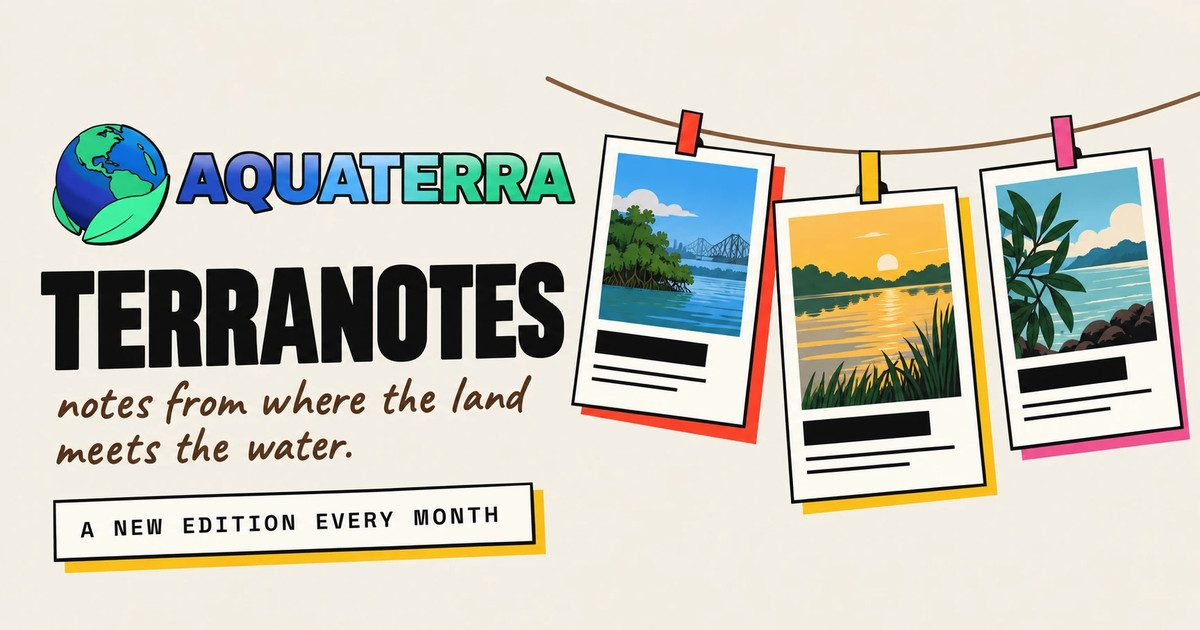
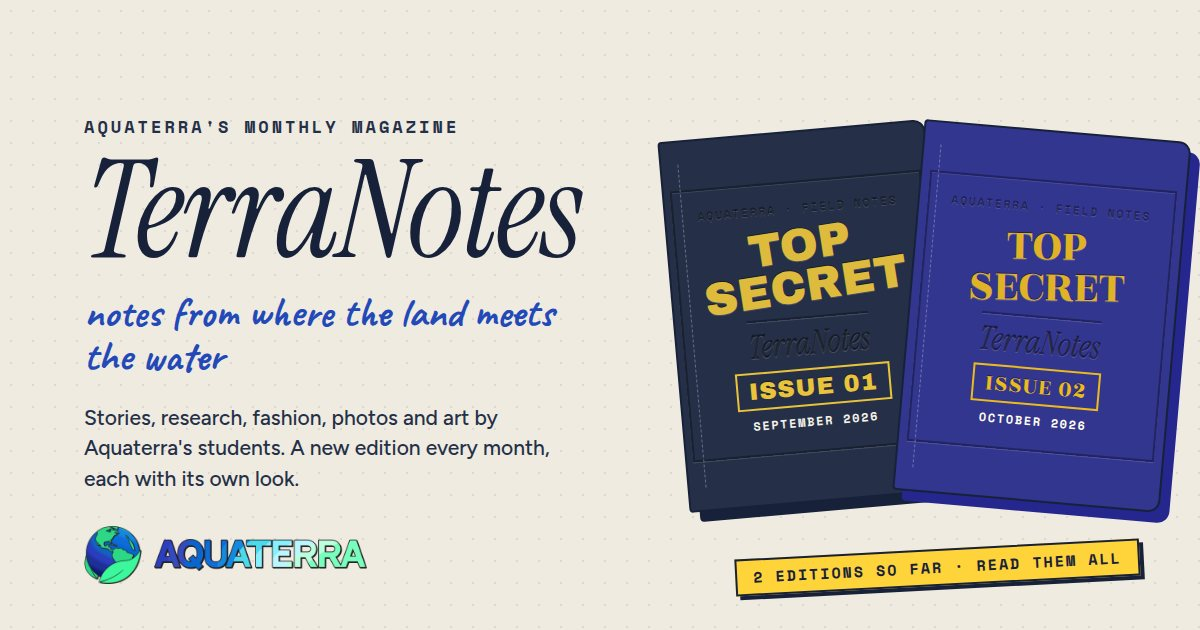
Link previews for the main page, each edition and each article, all together in public/og/
- tools/make-link-previews.mjs draws them all (the approved designs): home.jpg (every edition as
  its "Top secret" notebook), <id>.jpg (an edition on its paper with its covers on a string and
  its No. stamp), <id>-<slug>.jpg (an article: its cover in a frame its own shape, the edition's
  No. and month on a tape, tag, title, dek, byline). Editions without a paper of their own get
  their page colour.
- src/data/editions.js ogImage: where each lives.
- build/siteFiles.js: / and /editions (and 404) show the main page's, an edition's home and
  section pages show that edition's, an article (and its chapters) its own; content-hashed copies.
- Inside AQ the prerender does the same (embed/aq/scripts/prerender.mjs).
- The old preview.jpg in each article's folder is gone.

Claude-Session: https://claude.ai/code/session_01CgW7HxbCpt5fYjBJ3ADamc

diff --git a/build/siteFiles.js b/build/siteFiles.js
@@ -2,9 +2,11 @@
 // src/editions (drafts are left out: their pages only exist in the app, at their own address):
 // - an .html per article at its address (articles/<slug>.html, older editions <id>/articles/<slug>.html; also one per
 //   chapter and demo of an own-page article, <article>/<chapter>.html and <article>/<chapter>/demo.html; served
-//   without .html via cleanUrls in vercel.json): its own title, description, link-preview tags (image: preview.jpg in
-//   the article's folder, public/editions/<id>/articles/<slug>/, copied to a content-hashed name so chat apps don't
-//   keep showing an old picture) and its text (build/staticCopy.js) for crawlers that don't run JavaScript;
+//   without .html via cleanUrls in vercel.json): its own title, description, link-preview tags and its text
+//   (build/staticCopy.js) for crawlers that don't run JavaScript;
+// - every page's link-preview picture from public/og/ (src/data/editions.js ogImage: the main page's on / and
+//   /editions, an edition's on its home page and sections, an article's on the article), copied to a content-hashed
+//   name so chat apps don't keep showing an old picture;
 // - index.html, articles.html, photos.html, words.html, members.html (the latest edition's home page and its sections),
 //   the same for each older edition under its id (sep26.html, sep26/photos.html…), and editions.html, with their own
 //   titles and text;
@@ -13,7 +15,7 @@ import fs from 'node:fs';
 import path from 'node:path';
 import crypto from 'node:crypto';
 import { ALL_ARTICLES } from '../src/data/articles.js';
-import { LATEST, PUBLISHED, articleFolder, articleLink, editionName, homeLink, isDraft } from '../src/data/editions.js';
+import { LATEST, PUBLISHED, articleLink, editionName, homeLink, isDraft, ogImage } from '../src/data/editions.js';
 import { SITE } from '../src/data/site.js';
 import { editionData } from '../src/editions/index.js';
 import { articleHtml, editionsHtml, homeHtml, withContent } from './staticCopy.js';
@@ -32,6 +34,22 @@ export default function siteFiles(host) {
       const out = (name, text) => { fs.mkdirSync(path.dirname(path.join(dir, name)), { recursive: true }); fs.writeFileSync(path.join(dir, name), text); };
       const base = fs.readFileSync(path.join(dir, 'index.html'), 'utf8');
       const url = (p) => `${host}${p}`;
+      // a link-preview picture (a URL under public/) copied to a content-hashed name; null when it hasn't been made
+      const hashed = new Map();
+      const og = (p) => {
+        if (!hashed.has(p)) {
+          const file = `public${p}`;
+          if (!fs.existsSync(file)) hashed.set(p, null);
+          else { const buf = fs.readFileSync(file), name = p.replace(/\.jpg$/, `-${crypto.createHash('md5').update(buf).digest('hex').slice(0, 8)}.jpg`); out(name.slice(1), buf); hashed.set(p, name); }
+        }
+        return hashed.get(p);
+      };
+      const withImage = (html, p, alt) => {
+        let h = html;
+        for (const [attr, name] of [['property', 'og:image'], ['property', 'og:image:secure_url'], ['name', 'twitter:image']]) h = setMeta(h, attr, name, url(p));
+        return alt ? h.replace('<meta property="og:image:type"', `<meta property="og:image:alt" content="${esc(alt)}" />\n    <meta property="og:image:type"`) : h;
+      };
+      const home = og(ogImage.home()), withHome = (html) => (home ? withImage(html, home, 'TerraNotes by Aquaterra') : html);
 
       for (const a of ARTICLES) {
         const desc = `${a.dek}${a.author ? ` — by ${a.author}` : ''}`;
@@ -41,17 +59,10 @@ export default function siteFiles(host) {
         html = setMeta(html, 'property', 'og:title', a.title);
         html = setMeta(html, 'property', 'og:description', desc);
         html = setMeta(html, 'property', 'og:url', url(articleLink(a)));
-        let og = a.cover; // no preview picture made yet: the cover itself
-        const made = `public${articleFolder(a)}/preview.jpg`;
-        if (fs.existsSync(made)) {
-          const buf = fs.readFileSync(made);
-          og = `${articleFolder(a)}/preview-${crypto.createHash('md5').update(buf).digest('hex').slice(0, 8)}.jpg`;
-          out(og.slice(1), buf);
-        }
-        if (og) {
-          for (const [attr, name] of [['property', 'og:image'], ['property', 'og:image:secure_url'], ['name', 'twitter:image']]) html = setMeta(html, attr, name, url(og));
-          if (og === a.cover) html = html.replace(/\s*<meta property="og:image:(width|height)"[^>]*>/g, ''); // a cover isn't 1200×630
-          html = html.replace('<meta property="og:image:type"', `<meta property="og:image:alt" content="${esc(a.alt || a.title)}" />\n    <meta property="og:image:type"`);
+        const pic = og(ogImage.article(a)) || a.cover; // no preview picture made yet: the cover itself
+        if (pic) {
+          html = withImage(html, pic, a.alt || a.title);
+          if (pic === a.cover) html = html.replace(/\s*<meta property="og:image:(width|height)"[^>]*>/g, ''); // a cover isn't 1200×630
         }
         html = html.replace('</title>', `</title>\n    <link rel="canonical" href="${esc(url(articleLink(a)))}" />`);
         out(`${articleLink(a).slice(1)}.html`, withContent(html, articleHtml(a)));
@@ -72,13 +83,16 @@ export default function siteFiles(host) {
           const p = homeLink(e.number, section), title = [name, old].filter(Boolean).join(' · ');
           let html = title ? setMeta(setTitle(base, `Aquaterra — ${title}`), 'property', 'og:title', `${title} · TerraNotes`) : base;
           html = setMeta(html, 'property', 'og:url', url(p));
+          // the main page shows the magazine; an edition's other pages show that edition
+          const pic = p === '/' ? null : og(ogImage.edition(e.number));
+          html = pic ? withImage(html, pic, `TerraNotes ${editionName(e.number)} · ${e.month}`) : withHome(html);
           out(p === '/' ? 'index.html' : `${p.slice(1)}.html`, withContent(html, homeHtml[section](editionData(e.number))));
           if (e.number === LATEST || !section) pages.push(p); // the sitemap: the latest's sections, an older edition's home
         }
       }
-      out('editions.html', withContent(setMeta(setMeta(setTitle(base, 'Aquaterra — Editions'), 'property', 'og:title', 'Editions · TerraNotes'), 'property', 'og:url', url('/editions')), editionsHtml()));
+      out('editions.html', withContent(withHome(setMeta(setMeta(setTitle(base, 'Aquaterra — Editions'), 'property', 'og:title', 'Editions · TerraNotes'), 'property', 'og:url', url('/editions'))), editionsHtml()));
 
-      out('404.html', setTitle(base, 'Aquaterra — not found').replace('</title>', '</title>\n    <meta name="robots" content="noindex" />'));
+      out('404.html', setTitle(withHome(base), 'Aquaterra — not found').replace('</title>', '</title>\n    <meta name="robots" content="noindex" />'));
       const paths = [...pages, '/editions', ...ARTICLES.map(articleLink)];
       out('sitemap.xml', `<?xml version="1.0" encoding="UTF-8"?>\n<urlset xmlns="http://www.sitemaps.org/schemas/sitemap/0.9">\n${paths.map((p) => `  <url><loc>${url(p)}</loc></url>`).join('\n')}\n</urlset>\n`);
       out('robots.txt', ['# TerraNotes by Aquaterra: every page is open to crawlers.', '# A plain-text guide to the site and its articles, for AI assistants: /llms.txt (full text: /llms-full.txt)', 'User-agent: *', 'Allow: /', '', `Sitemap: ${url('/sitemap.xml')}`, ''].join('\n'));

diff --git a/src/data/editions.js b/src/data/editions.js
@@ -25,9 +25,16 @@ export const editionLink = (n) => (n === LATEST ? '/' : `/${editionId(n)}`);
 // an edition's home page opened at a section ('articles', 'photos', 'words', 'members'): /photos, /sep26/photos
 export const homeLink = (n, section) => (n === LATEST ? `/${section || ''}` : `/${editionId(n)}${section ? `/${section}` : ''}`);
 export const articleLink = (a) => `${a.edition === LATEST ? '' : `/${editionId(a.edition)}`}/articles/${a.slug}`;
-// an article's folder of files (cover.jpg, preview.jpg, its photos): public/editions/<id>/articles/<slug>/, as a URL
+// an article's folder of files (cover.jpg, cover-card.webp, its photos): public/editions/<id>/articles/<slug>/, as a URL
 // (inside AQ's website under its /terranotes: lib/base.js)
 export const articleFolder = (a) => withBase(`/editions/${editionId(a.edition)}/articles/${a.slug}`);
+// the link-preview pictures (1200×630, made by tools/make-link-previews.mjs), all kept together in public/og/: the main
+// page's (home.jpg), each edition's (sep26.jpg) and each article's (sep26-labs.jpg), as URLs (inside AQ: under /terranotes)
+export const ogImage = {
+  home: () => withBase('/og/home.jpg'),
+  edition: (n) => withBase(`/og/${editionId(n)}.jpg`),
+  article: (a) => withBase(`/og/${editionId(a.edition)}-${a.slug}.jpg`),
+};
 // the month a new edition is due, for the empty "previous editions" shelf
 export const nextMonth = () => {
   const [m, y] = editionOf(LATEST).month.split(' ');

diff --git a/src/data/articles.js b/src/data/articles.js
@@ -33,7 +33,7 @@ import { ALL_ARTICLES, editionData } from '../editions/index.js';
 //   demos:    optional: { <chapter>: '<folder>' }: a web app kept in the article's folder, opened full-window at
 //             <article>/<chapter>/demo (pages/DemoPage.jsx), e.g. { 'wisdom-woods': 'wisdom-woods/demo' }
 // Blocks render in shared/ArticleBody.jsx. Leave a field '' and the design's placeholder shows instead.
-// After adding or changing an article's cover, run tools/make-link-previews.mjs for its link-preview image.
+// After adding or changing an article's cover, run tools/make-link-previews.mjs for its link-preview image (public/og/).
 // Each article also gets `edition` (its edition's number, data/editions.js) from the folder it's in.
 
 export { ALL_ARTICLES };

diff --git a/CLAUDE.md b/CLAUDE.md
@@ -55,7 +55,7 @@ npm run build    # → dist/ (also writes per-article HTML, sitemap, robots, 404
 npm run preview  # serve dist/ on :4173
 npm run check    # tools/check-embed.mjs: the mistakes that only break inside AQ's website (the build runs it first)
 node tools/make-card-covers.mjs    # after adding an article / changing a cover: the small card copies (cover-card.webp)
-node tools/make-link-previews.mjs   # after adding an article / changing a cover (needs `npm i -D playwright`)
+node tools/make-link-previews.mjs   # after adding an article / changing a cover / a new edition: every link preview, in public/og/ (needs `npm i -D playwright`)
 ```
 
 There are no automated tests. Verify changes in a real browser at **both** widths: 390px (phone layout, emulate
@@ -161,7 +161,7 @@ Two separate layouts, chosen by window width (`lib/layoutMode.js`, `useIsWeb()`)
 - **Addresses follow the editions** (`data/editions.js`; each edition's id comes from its month, `sep26`):
   - latest edition: `/` and `/articles/<slug>`; older ones and drafts: `/<id>` (that edition's whole home page, in its own look) and `/<id>/articles/<slug>`.
   - Build links with `articleLink(a)` / `editionLink(n)` / `homeLink(n, section)`, never by hand. A new edition moves the old links by itself; either address of an article redirects to its current one (`App.jsx`).
-- **Files follow the editions too:** `public/editions/<id>/` holds that edition's files, latest or not. Each article has a folder, `public/editions/<id>/articles/<slug>/`: `cover.jpg`, `preview.jpg` (link preview, made by the tool) and any photos of its own (`articleFolder(a)`). The photo wall's pictures are in `public/editions/<id>/photos/`.
+- **Files follow the editions too:** `public/editions/<id>/` holds that edition's files, latest or not. Each article has a folder, `public/editions/<id>/articles/<slug>/`: `cover.jpg`, `cover-card.webp` (the cards' copy, made by the tool) and any photos of its own (`articleFolder(a)`). Every link preview lives together in `public/og/` (`ogImage` in `data/editions.js`): `home.jpg` (the main page, `/` and `/editions`), `<id>.jpg` (an edition's home and section pages), `<id>-<slug>.jpg` (an article). The photo wall's pictures are in `public/editions/<id>/photos/`.
 - **An article can have its own page** instead of the usual layout: `page: 'labs'` in its data and an entry in `PAGES` (`App.jsx`). It lives in `src/articles/<name>/`.
   - Its `body` is still what crawlers and AIs read.
   - It gets no card flight (no cover to land on; `flight()` in `lib/cardFlight.js`), just the crossfade.
@@ -277,7 +277,7 @@ vite.config.js          plugins: React, %SITE_URL% + the latest edition's look, 
 build/siteFiles.js      at build: an .html per article at its address (own title + preview image), each edition's home and section
                         pages, 404, sitemap, robots, llms.txt (drafts left out)
 build/staticCopy.js     each page's text as plain HTML inside #root, for crawlers without JavaScript
-tools/make-link-previews.mjs   preview.jpg in each article's folder (1200×630 link preview)
+tools/make-link-previews.mjs   every link preview (1200×630) into public/og/: the main page, each edition, each article, on the edition's paper
 tools/check-embed.mjs   the guard for AQ's website (see "Inside AQ's website")   tools/export-aq.mjs   writes the magazine into it
 embed/aq/               AQ-only: README (for AQ's side), scripts/ (prerender.mjs), public/fonts/
 src/host.js             where this copy runs (own site / AQ's website)
@@ -318,7 +318,7 @@ src/styles/             fonts.js (FONT: the look's font variables) · base.css (
                         motion.css (one-shot) · phone.css · web.css · intro.css · buddy.css
 public/                 editions/<id>/ (articles/<slug>/: cover, preview, own photos · photos/: the photo wall)
                         brand/ (globe, wordmark) · team/ (faces, 400px WebP) · badges/ · fonts/ (AQ Labs' own fonts)
-                        og/home.jpg (home link preview, made by hand) · icons + site.webmanifest
+                        og/ (every link preview, made by tools/make-link-previews.mjs) · icons + site.webmanifest
 ```
 
 ## Common jobs
